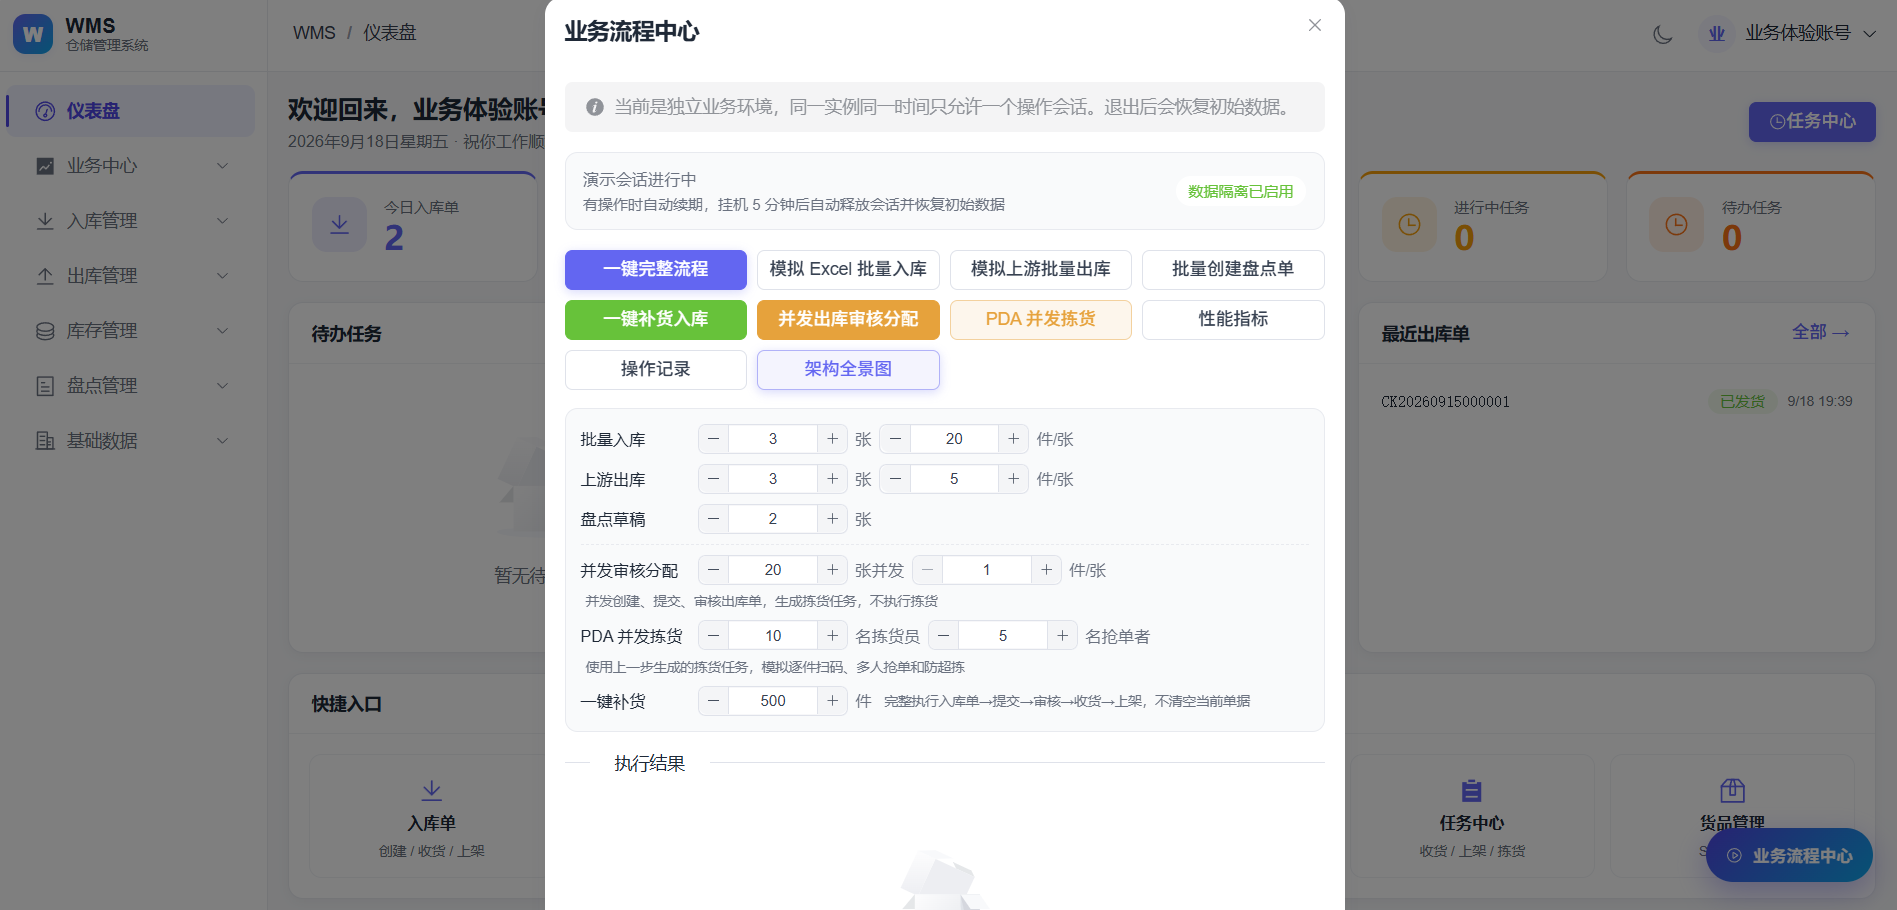
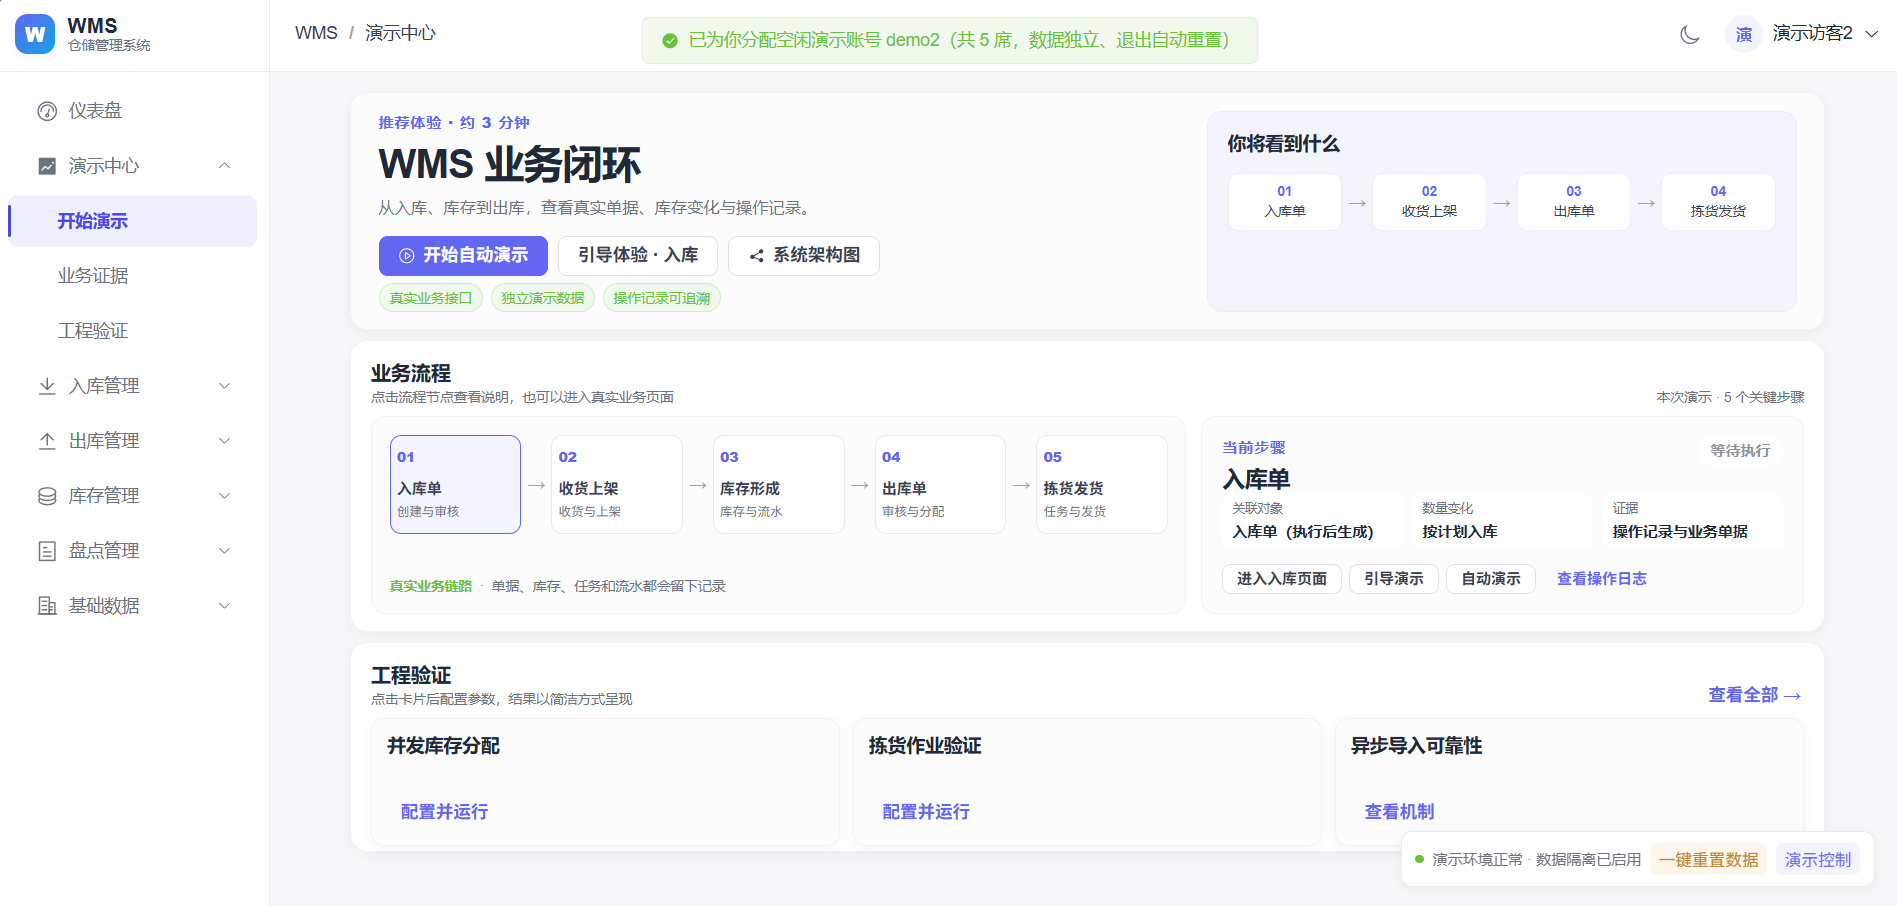
docs: refresh demo preview and public links

diff --git a/README.md b/README.md
@@ -9,7 +9,9 @@ WMS 是一个前后端分离的轻量级 WMS，覆盖仓库、库位、货品、
 
 > 适合作为 Go + Vue 全栈学习项目、毕业设计或中小型仓储系统二次开发基础。生产环境使用前请按本文的安全配置完成加固。
 
-**在线 Demo**：<https://mengw21.cn> （内置 5 个演示账号，详见下方"演示模式"章节）
+**公网地址**：<https://mengw21.cn> （内置 5 个演示账号，详见下方"演示模式"章节）
+
+**在线架构图**：<https://mengw21.cn/overview.html>
 
 ## 界面预览
 
@@ -17,9 +19,9 @@ WMS 是一个前后端分离的轻量级 WMS，覆盖仓库、库位、货品、
 
 ![业务流程中心](docs/images/demo-console.png)
 
-**架构全景图**：涵盖技术分层、单据状态机、数据模型与架构能力视图，点击图片可查看在线交互页面（GitHub Pages，无需克隆项目）。
+**架构全景图**：涵盖技术分层、单据状态机、数据模型与架构能力视图，点击图片可查看公网在线交互页面（无需克隆项目）。
 
-[![架构全景图](docs/images/overview.png)](https://mengw-dev.github.io/go-wms/)
+[![架构全景图](docs/images/overview.png)](https://mengw21.cn/overview.html)
 
 ## 技术栈
 
